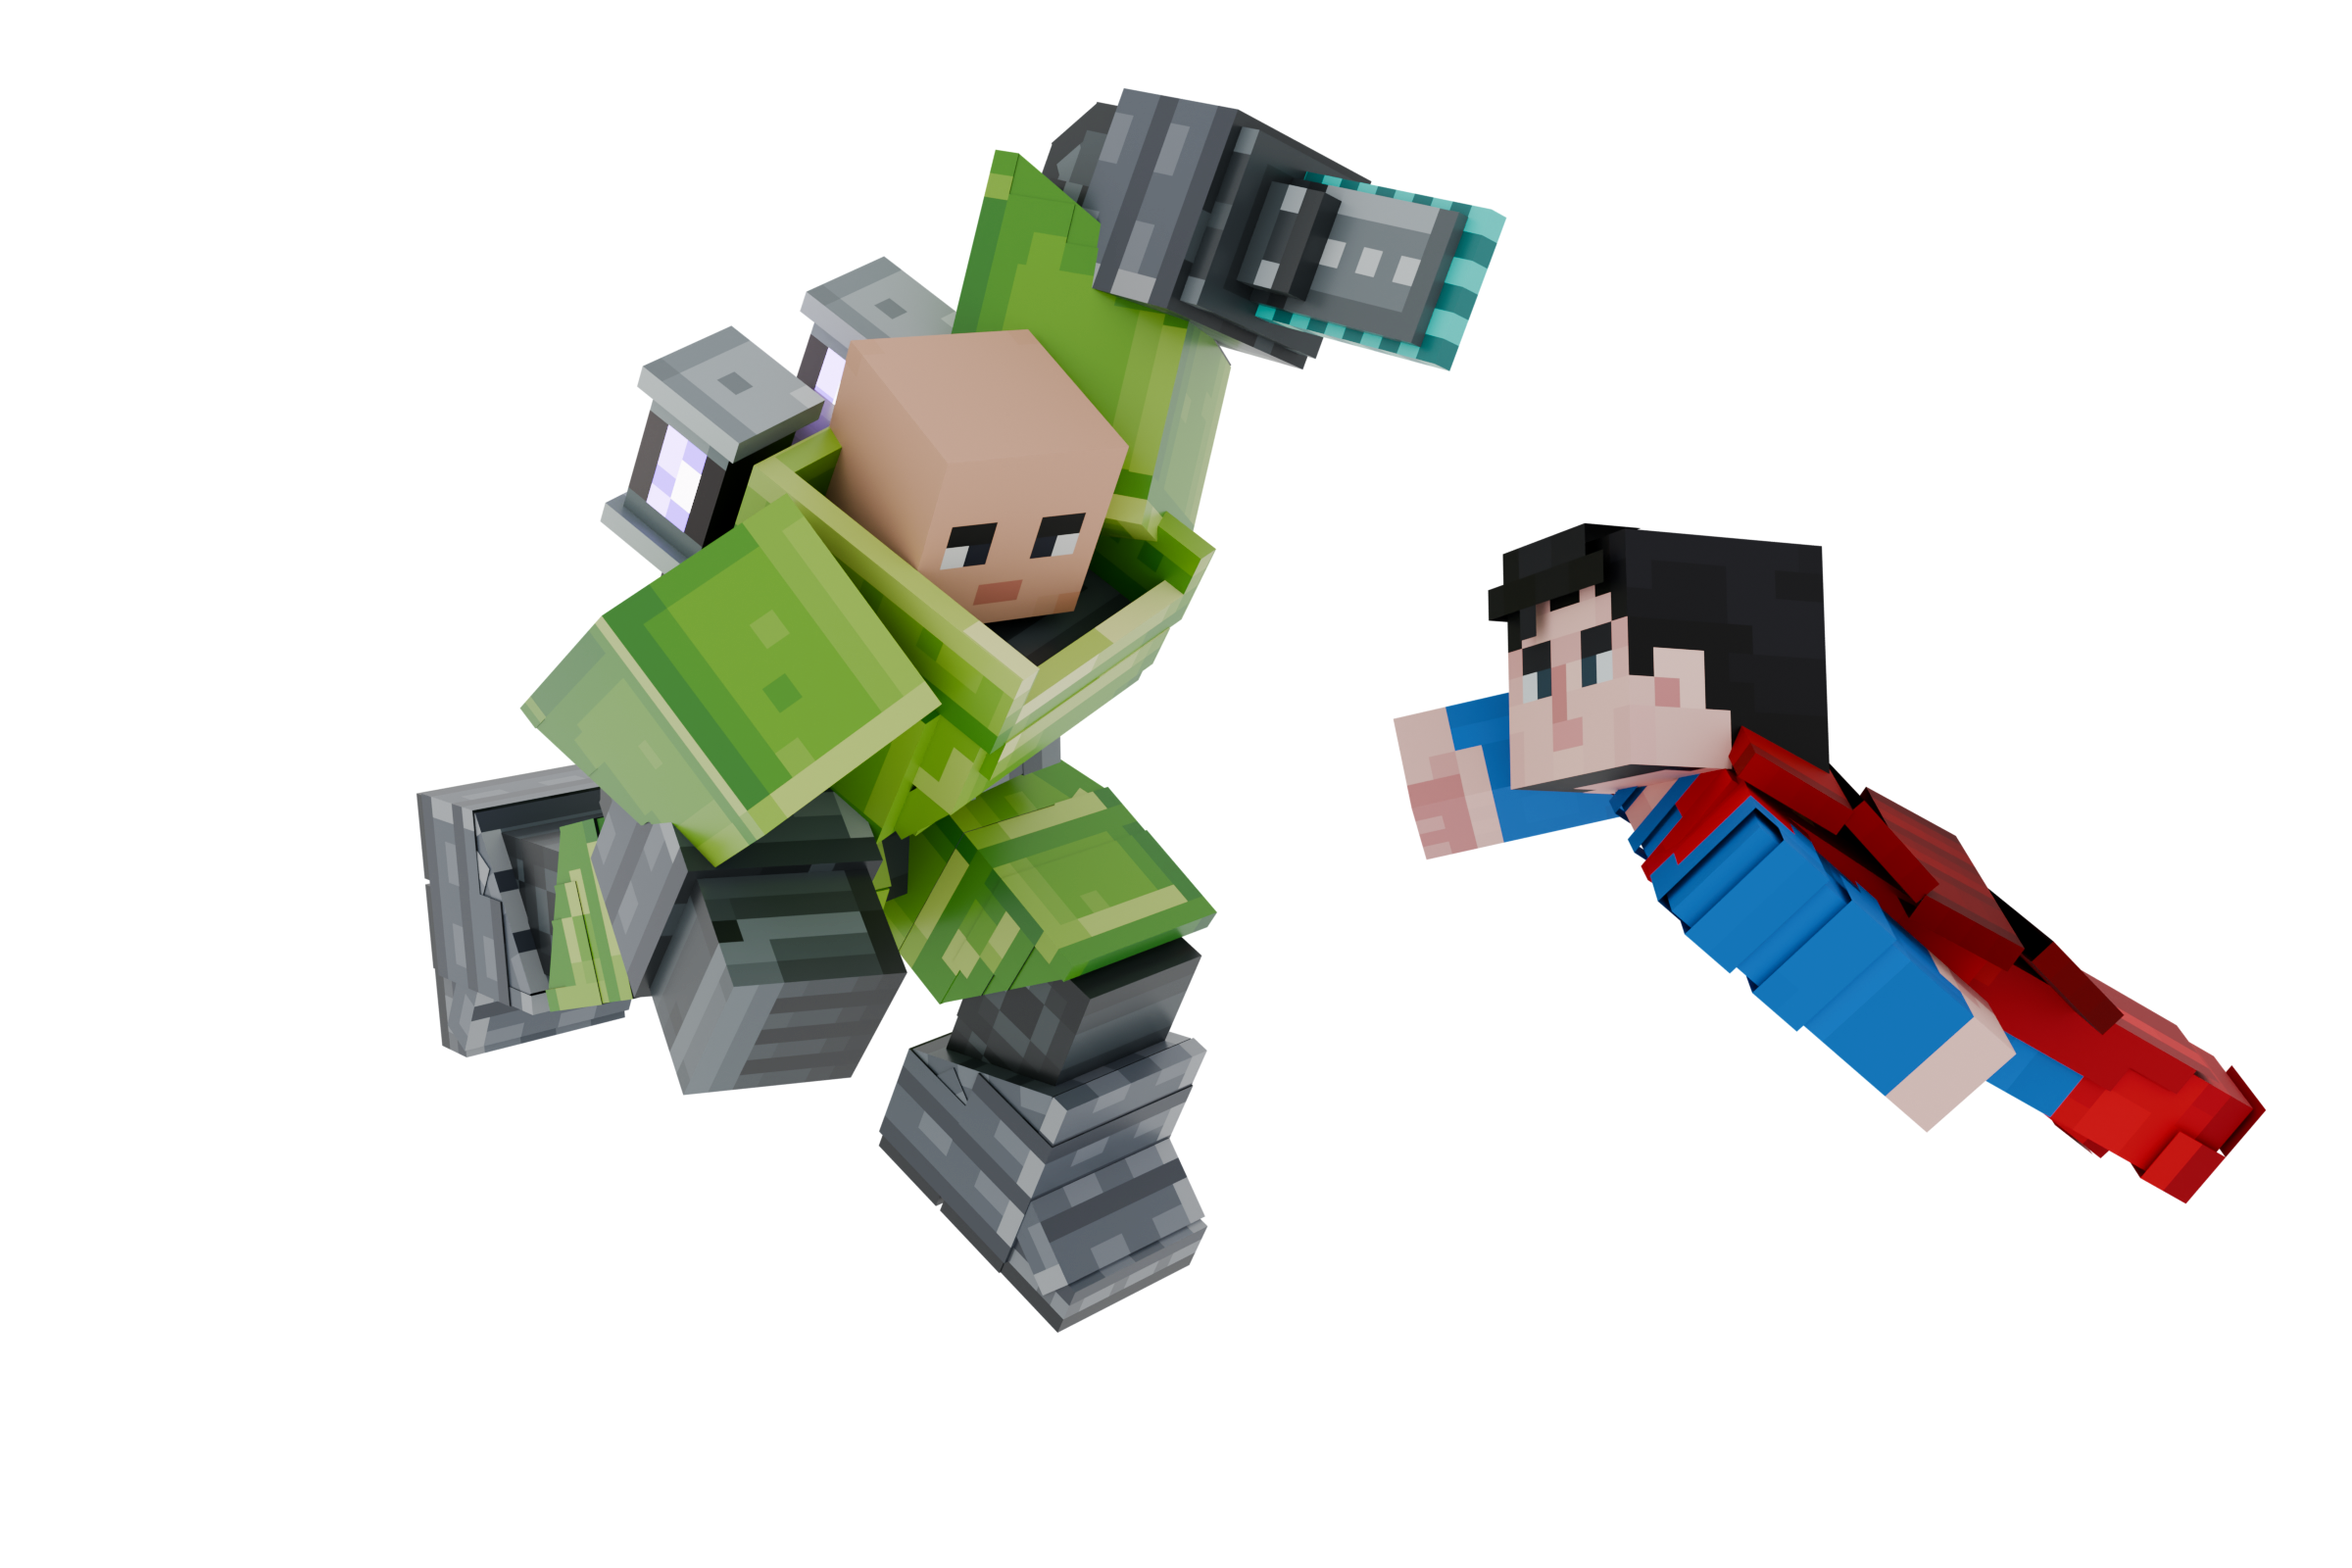
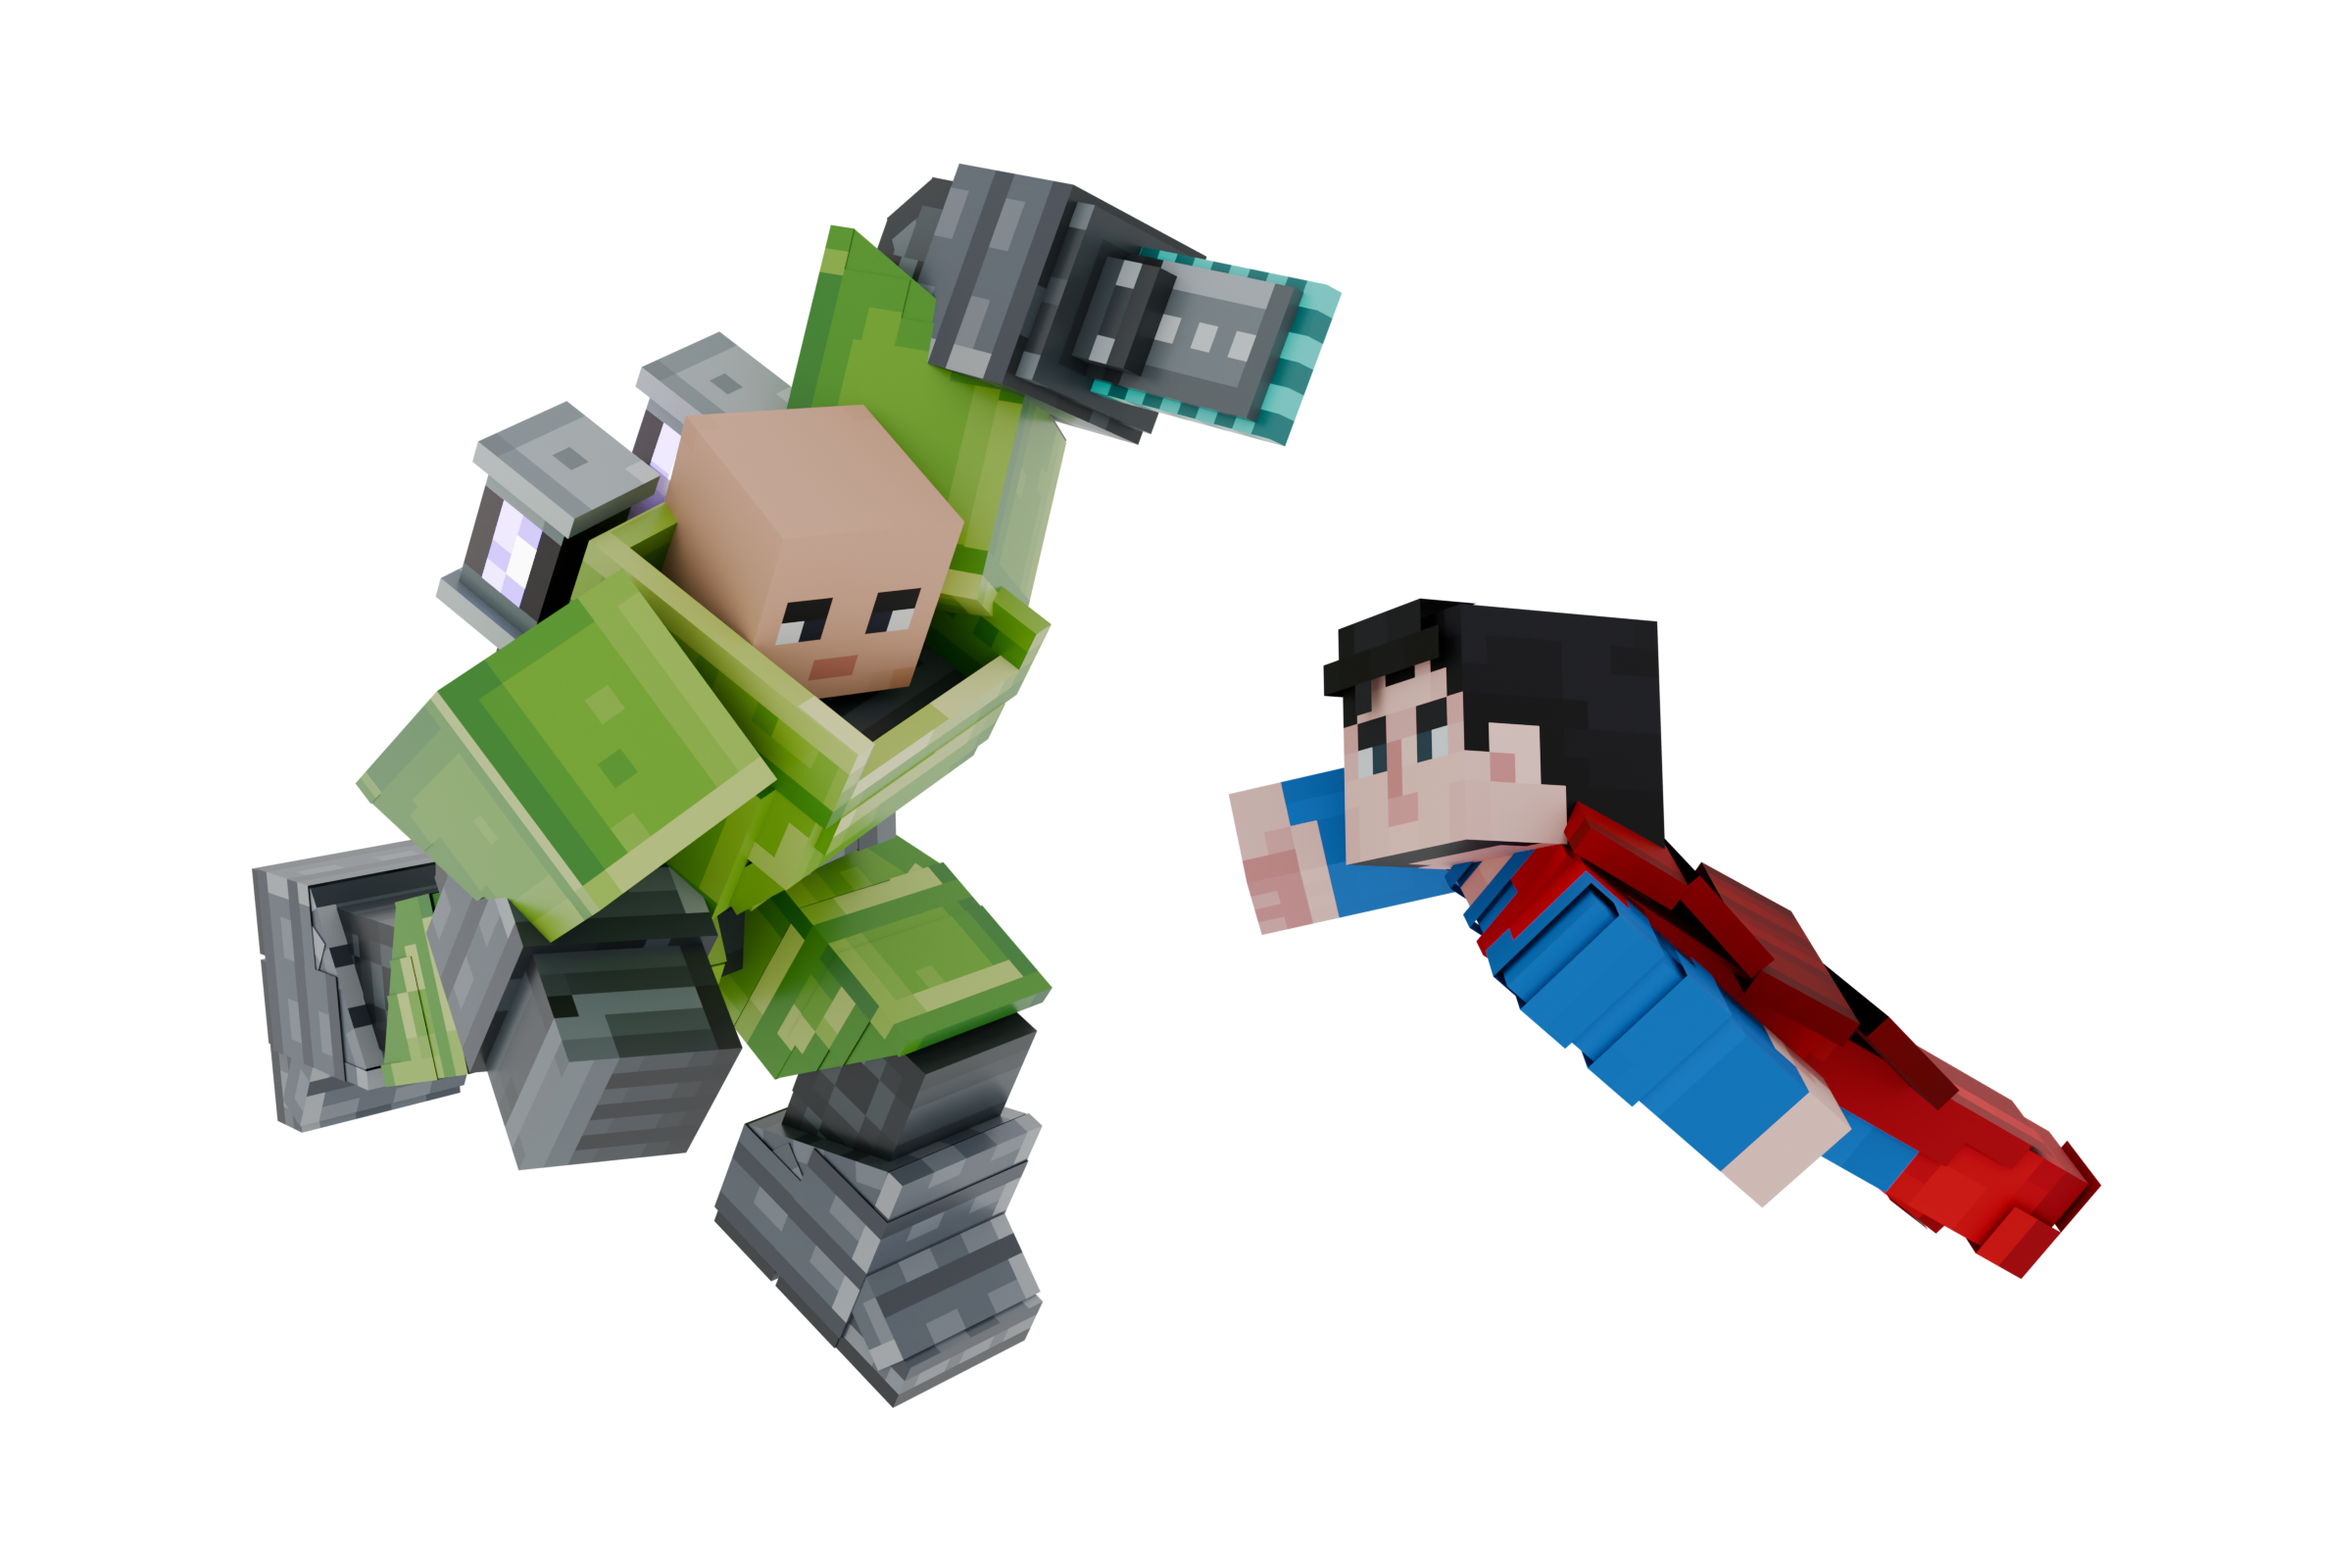
Man of Tomorrow: the pair centred in the frame by a camera lens shift (shift_x 0.07, shift_y 0.032; the perspective stays as it was). Lex's side had 424 px of white and Superman's 88; now 256/255 at the sides and 166/163 top and bottom

diff --git a/marketing/blender/man_of_tomorrow.py b/marketing/blender/man_of_tomorrow.py
@@ -212,6 +212,10 @@ if PREVIEW:
     M.bpy.context.scene.render.resolution_percentage = 50
 cam = M.camera(CAM_LOC, CAM_AT, lens=num('--lens', 40.0 if BG == 'white' else 33.0))  # from above: Lex's head reads
 # (on white the lens is longer: with nothing behind them the fighters fill more of the frame)
+if BG == 'white':  # centre the pair in the frame (lens shift: the perspective stays as it was); measured from the
+    # render's alpha, Lex's side had 424 px of white and Superman's 88
+    cam.data.shift_x = num('--shiftx', 0.07)
+    cam.data.shift_y = num('--shifty', 0.032)
 if BG in ('sky', 'city'):
     cam.data.clip_end = 100000  # the default 1000 cut the city off a kilometre out (it looked like an island)
 M.depth_of_field(cam, CLASH, fstop=FSTOP)
